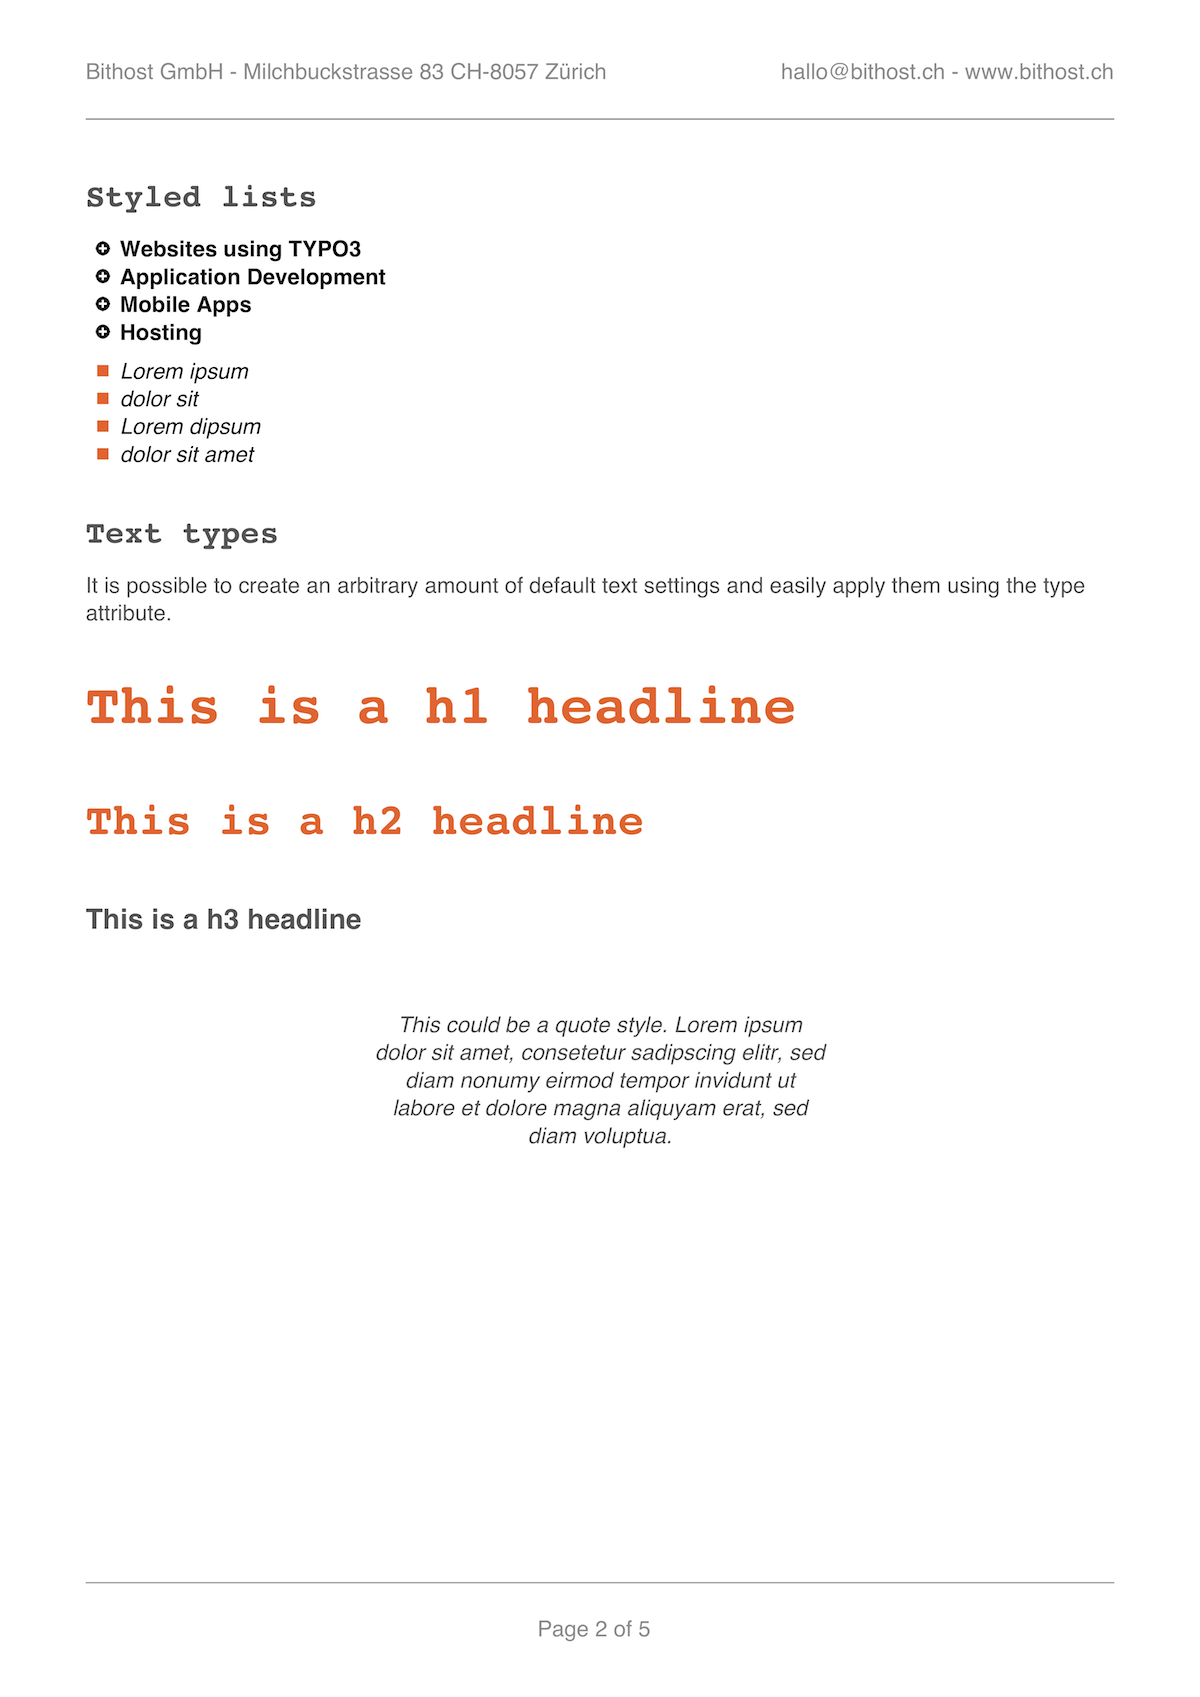
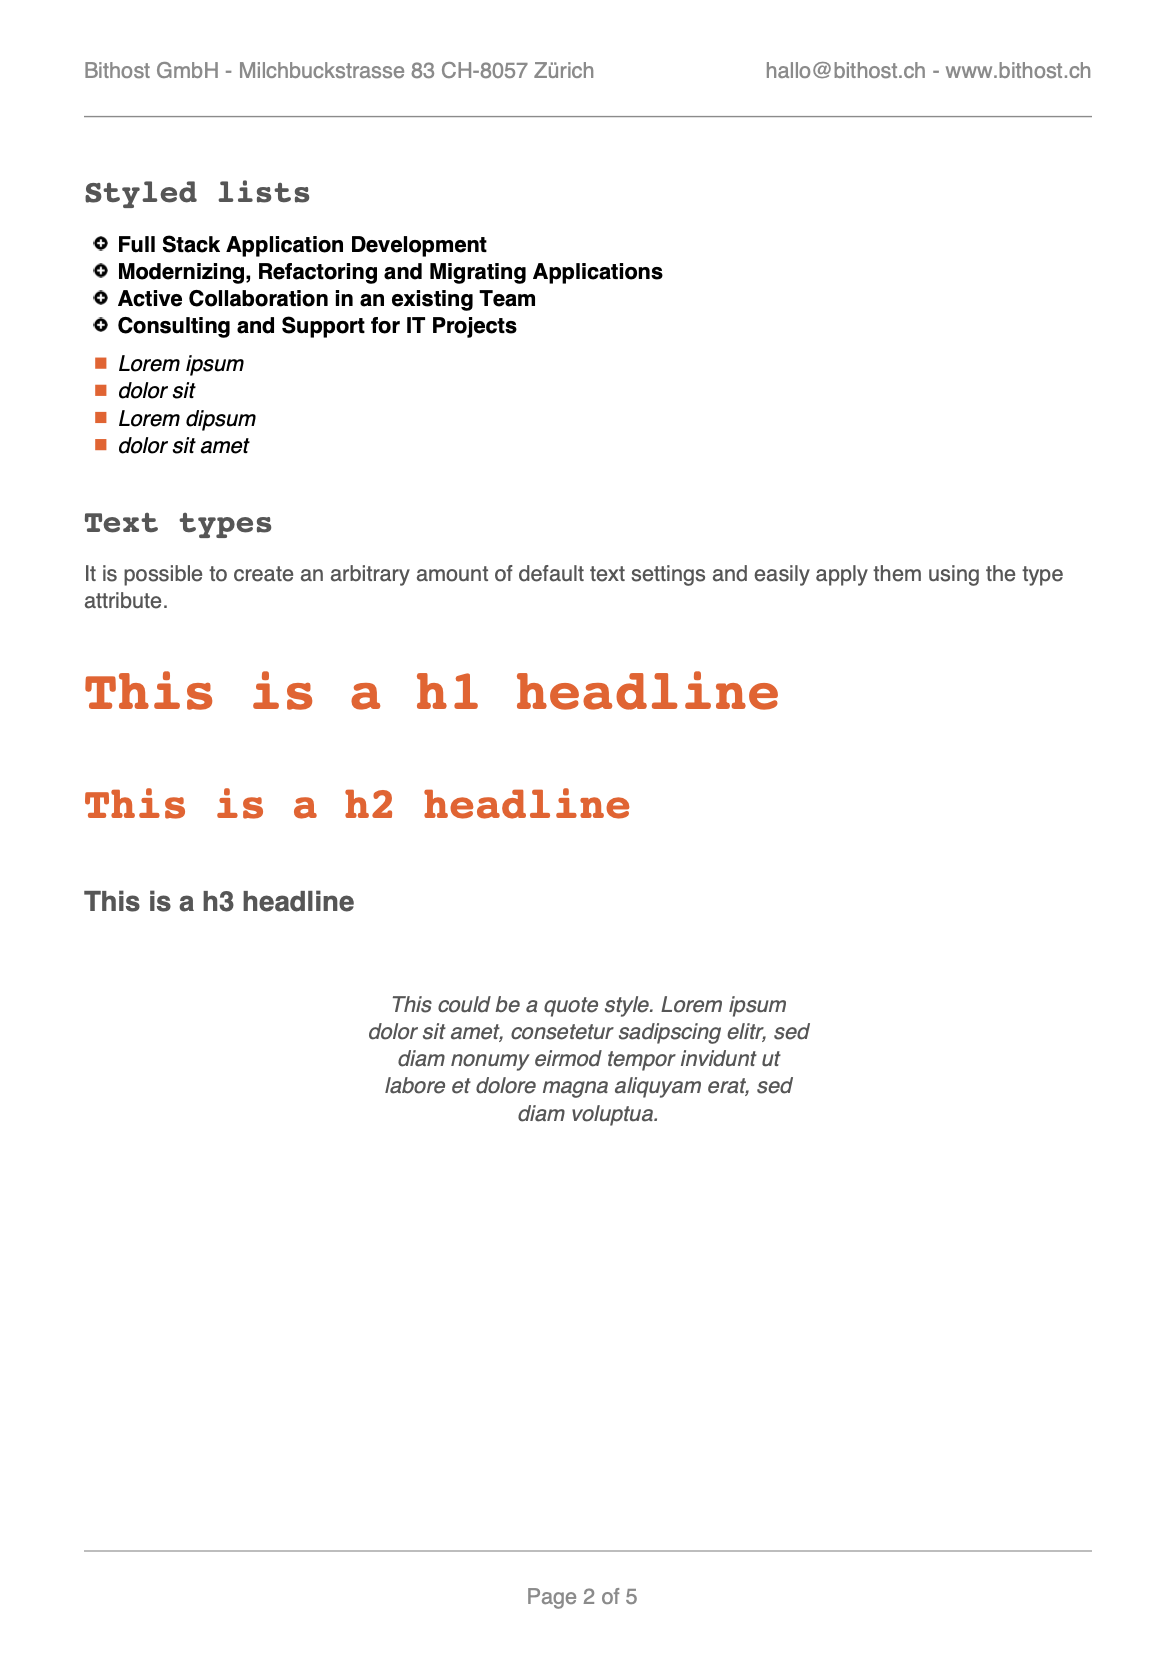
Changes image in examples

diff --git a/Resources/Public/Examples/FullFeatureShowCase/Template.html b/Resources/Public/Examples/FullFeatureShowCase/Template.html
@@ -80,7 +80,7 @@
                 padding="{left: 1.75}"
                 bulletSize="2.5"
                 bulletImageSrc="EXT:pdfviewhelpers/Resources/Public/Examples/FullFeatureShowCase/bullet_image.png"
-                listElements="{0: 'Websites using TYPO3', 1: 'Application Development', 2: 'Mobile Apps', 3: 'Hosting'}" />
+                listElements="{0: 'Full Stack Application Development', 1: 'Modernizing, Refactoring and Migrating Applications', 2: 'Active Collaboration in an existing Team', 3: 'Consulting and Support for IT Projects'}" />
         <pdf:list
                 bulletSize="2"
                 bulletColor="#ff642c"
@@ -110,9 +110,9 @@
             </pdf:column>
             <pdf:column width="50%">
                 <pdf:headline>Images with different alignment</pdf:headline>
-                <pdf:image src="EXT:pdfviewhelpers/Resources/Public/Examples/FullFeatureShowCase/Bithost.jpg" width="50%" alignment="left" />
-                <pdf:image src="EXT:pdfviewhelpers/Resources/Public/Examples/FullFeatureShowCase/Bithost.jpg" width="50%" alignment="center" />
-                <pdf:image src="EXT:pdfviewhelpers/Resources/Public/Examples/FullFeatureShowCase/Bithost.jpg" width="50%" alignment="right" />
+                <pdf:image src="EXT:pdfviewhelpers/Resources/Public/Examples/FullFeatureShowCase/Bithost.jpg" width="50%" link="https://bithost.ch/" alignment="left" />
+                <pdf:image src="EXT:pdfviewhelpers/Resources/Public/Examples/FullFeatureShowCase/Bithost.jpg" width="50%" link="https://bithost.ch/" alignment="center" />
+                <pdf:image src="EXT:pdfviewhelpers/Resources/Public/Examples/FullFeatureShowCase/Bithost.jpg" width="50%" link="https://bithost.ch/" alignment="right" />
             </pdf:column>
         </pdf:multiColumn>
     </pdf:page>

diff --git a/Resources/Public/Examples/BasicUsage/Template.html b/Resources/Public/Examples/BasicUsage/Template.html
@@ -36,11 +36,11 @@
         <pdf:multiColumn>
             <pdf:column width="55%">
                 <pdf:text>Lorem ipsum dolor sit amet, consetetur sadipscing elitr, sed diam nonumy eirmod tempor invidunt ut labore et dolore magna aliquyam erat, sed diam voluptua:</pdf:text>
-                <pdf:list listElements="{0: 'Websites using TYPO3', 1: 'Application Development', 2: 'Mobile Apps', 3: 'Hosting'}"/>
+                <pdf:list listElements="{0: 'Full Stack Application Development', 1: 'Modernizing, Refactoring and Migrating Applications', 2: 'Active Collaboration in an existing Team', 3: 'Consulting and Support for IT Projects'}" />
                 <pdf:text>Lorem ipsum dolor sit amet, consetetur sadipscing elitr, sed diam nonumy eirmod tempor invidunt ut labore et dolore magna aliquyam erat, sed diam voluptua. At vero eos et dolores et ea rebum. Stet clita kasd gubergren, no sea takimata sanctus est Lorem ipsum dolor sit amet. Lorem ipsum dolor sit diam nonumy eirmod tempor invidunt ut labore et dolore magna aliquyam erat, sed diam voluptua. At vero eos et accusam et justo duo dolores et ea rebum. Stet clita kasd gubergren est Lorem ipsum dolor sit amet.</pdf:text>
             </pdf:column>
             <pdf:column width="45%" padding="{left: 2}">
-                <pdf:image src="EXT:pdfviewhelpers/Resources/Public/Examples/BasicUsage/Bithost.jpg"/>
+                <pdf:image src="EXT:pdfviewhelpers/Resources/Public/Examples/BasicUsage/Bithost.jpg" link="https://bithost.ch/" />
                 <pdf:text padding="{top: 1}" color="#8C8C8C">Esteban Gehring, Markus Mächler</pdf:text>
             </pdf:column>
         </pdf:multiColumn>

diff --git a/Tests/Functional/Fixtures/Examples/BasicUsage.html b/Tests/Functional/Fixtures/Examples/BasicUsage.html
@@ -36,7 +36,7 @@
         <pdf:multiColumn>
             <pdf:column width="55%">
                 <pdf:text>Lorem ipsum dolor sit amet, consetetur sadipscing elitr, sed diam nonumy eirmod tempor invidunt ut labore et dolore magna aliquyam erat, sed diam voluptua:</pdf:text>
-                <pdf:list listElements="{0: 'Websites using TYPO3', 1: 'Application Development', 2: 'Mobile Apps', 3: 'Hosting'}"/>
+                <pdf:list listElements="{0: 'Full Stack Application Development', 1: 'Modernizing, Refactoring and Migrating Applications', 2: 'Active Collaboration in an existing Team', 3: 'Consulting and Support for IT Projects'}"/>
                 <pdf:text>Lorem ipsum dolor sit amet, consetetur sadipscing elitr, sed diam nonumy eirmod tempor invidunt ut labore et dolore magna aliquyam erat, sed diam voluptua. At vero eos et dolores et ea rebum. Stet clita kasd gubergren, no sea takimata sanctus est Lorem ipsum dolor sit amet. Lorem ipsum dolor sit diam nonumy eirmod tempor invidunt ut labore et dolore magna aliquyam erat, sed diam voluptua. At vero eos et accusam et justo duo dolores et ea rebum. Stet clita kasd gubergren est Lorem ipsum dolor sit amet.</pdf:text>
             </pdf:column>
             <pdf:column width="45%" padding="{left: 2}">

diff --git a/Tests/Functional/Fixtures/Examples/FullFeatureShowCase.html b/Tests/Functional/Fixtures/Examples/FullFeatureShowCase.html
@@ -80,7 +80,7 @@
                 padding="{left: 1.75}"
                 bulletSize="2.5"
                 bulletImageSrc="EXT:pdfviewhelpers/Resources/Public/Examples/FullFeatureShowCase/bullet_image.png"
-                listElements="{0: 'Websites using TYPO3', 1: 'Application Development', 2: 'Mobile Apps', 3: 'Hosting'}" />
+                listElements="{0: 'Full Stack Application Development', 1: 'Modernizing, Refactoring and Migrating Applications', 2: 'Active Collaboration in an existing Team', 3: 'Consulting and Support for IT Projects'}" />
         <pdf:list
                 bulletSize="2"
                 bulletColor="#ff642c"

diff --git a/Tests/Functional/Examples/FullFeatureShowCaseTest.php b/Tests/Functional/Examples/FullFeatureShowCaseTest.php
@@ -58,7 +58,7 @@ class FullFeatureShowCaseTest extends AbstractFunctionalTest
         $this->assertStringContainsStringIgnoringCase('Full Feature Show Case', $pages[0]->getText());
 
         $this->assertStringContainsStringIgnoringCase('hallo@bithost.ch - www.bithost.ch', $pages[1]->getText());
-        $this->assertStringContainsStringIgnoringCase('Application Development', $pages[1]->getText());
+        $this->assertStringContainsStringIgnoringCase('Full Stack Application Development', $pages[1]->getText());
         $this->assertStringContainsStringIgnoringCase('This is a h1 headline', $pages[1]->getText());
 
         $this->assertStringContainsStringIgnoringCase('Only this page will have a different header', $pages[2]->getText());

diff --git a/Documentation/Examples/BasicUsage/Index.rst b/Documentation/Examples/BasicUsage/Index.rst
@@ -122,7 +122,7 @@ Fluid Template
 					<pdf:text>
 						Lorem ipsum dolor sit amet, consetetur sadipscing elitr, sed diam nonumy eirmod tempor invidunt ut labore et dolore magna aliquyam erat, sed diam voluptua:
 					</pdf:text>
-					<pdf:list listElements="{0: 'Websites using TYPO3', 1: 'Application Development', 2: 'Mobile Apps', 3: 'Hosting'}"/>
+					<pdf:list listElements="{0: 'Full Stack Application Development', 1: 'Modernizing, Refactoring and Migrating Applications', 2: 'Active Collaboration in an existing Team', 3: 'Consulting and Support for IT Projects'}"/>
 					<pdf:text>
 						Lorem ipsum dolor sit amet, consetetur sadipscing elitr, sed diam nonumy eirmod tempor invidunt ut labore et dolore magna aliquyam erat, sed diam voluptua. At vero eos et dolores et ea rebum. Stet clita kasd gubergren, no sea takimata sanctus est Lorem ipsum dolor sit amet. Lorem ipsum dolor sit diam nonumy eirmod tempor invidunt ut labore et dolore magna aliquyam erat, sed diam voluptua. At vero eos et accusam et justo duo dolores et ea rebum. Stet clita kasd gubergren est Lorem ipsum dolor sit amet.
 					</pdf:text>

diff --git a/README.md b/README.md
@@ -93,13 +93,13 @@ So if you feel like this extension was useful to you and saved you and your busi
                 <pdf:text>
                     Lorem ipsum [..] voluptua:
                 </pdf:text>
-                <pdf:list listElements="{0: 'Websites using TYPO3', 1: 'Application Development', 2: 'Mobile Apps', 3: 'Hosting'}"/>
+                <pdf:list listElements="{0: 'Full Stack Application Development', 1: 'Modernizing, Refactoring [..]'}" />
                 <pdf:text>
                     Lorem ipsum  [..] sit amet.
                 </pdf:text>
             </pdf:column>
             <pdf:column width="45%" padding="{left: 2}">
-                <pdf:image src="EXT:pdfviewhelpers/Resources/Public/Examples/BasicUsage/Bithost.jpg" />
+                <pdf:image src="EXT:pdfviewhelpers/Resources/Public/Examples/BasicUsage/Bithost.jpg" link="https://bithost.ch/" />
                 <pdf:text padding="{top: 1}" color="#8C8C8C">Esteban Gehring, Markus Mächler</pdf:text>
             </pdf:column>
         </pdf:multiColumn>

diff --git a/Documentation/ViewHelpers/ListViewHelper/Index.rst b/Documentation/ViewHelpers/ListViewHelper/Index.rst
@@ -15,7 +15,7 @@ It is possible to easily define different default styles and apply them using th
 **Basic Usage**
 ::
 
-	<pdf:list listElements="{0: 'Websites using TYPO3', 1: 'Application Development', 2: 'Mobile Apps', 3: 'Hosting'}"/>
+	<pdf:list listElements="{0: 'Full Stack Application Development', 1: 'Modernizing, Refactoring and Migrating Applications', 2: 'Active Collaboration in an existing Team', 3: 'Consulting and Support for IT Projects'}"/>
 	<pdf:list listElements="{someArrayProperty}"/>
 
 **Advanced Usage**
@@ -39,5 +39,5 @@ It is possible to easily define different default styles and apply them using th
 		bulletImageSrc="EXT:pdfviewhelpers/some/path/image.png"
 		bulletSize="2.5"
 
-		listElements="{0: 'Websites using TYPO3', 1: 'Application Development', 2: 'Mobile Apps', 3: 'Hosting'}"
+		listElements="{0: 'Full Stack Application Development', 1: 'Modernizing, Refactoring and Migrating Applications', 2: 'Active Collaboration in an existing Team', 3: 'Consulting and Support for IT Projects'}"
 		/>

diff --git a/Documentation/Examples/FullFeatureShowCase/Index.rst b/Documentation/Examples/FullFeatureShowCase/Index.rst
@@ -285,7 +285,7 @@ Fluid Template
 					padding="{left: 1.75}"
 					bulletSize="2.5"
 					bulletImageSrc="EXT:pdfviewhelpers/Resources/Public/Examples/FullFeatureShowCase/bullet_image.png"
-					listElements="{0: 'Websites using TYPO3', 1: 'Application Development', 2: 'Mobile Apps', 3: 'Hosting'}" />
+					listElements="{0: 'Full Stack Application Development', 1: 'Modernizing, Refactoring and Migrating Applications', 2: 'Active Collaboration in an existing Team', 3: 'Consulting and Support for IT Projects'}" />
 			<pdf:list
 					bulletSize="2"
 					bulletColor="#ff642c"
